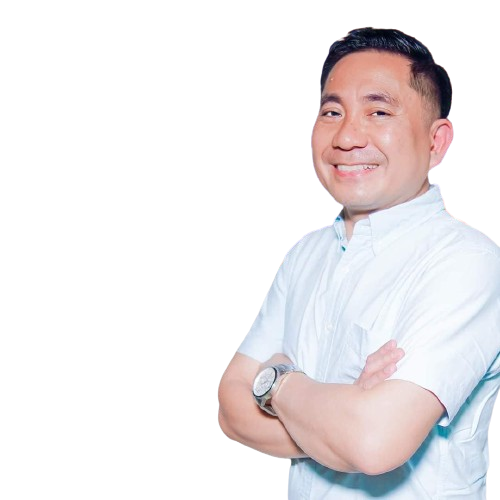
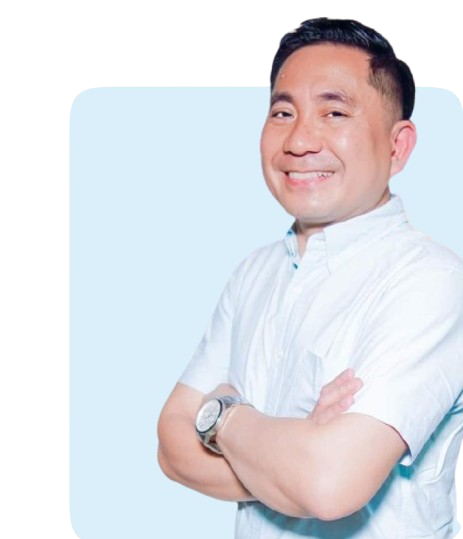
add more and pictures

diff --git a/pages/features.html b/pages/features.html
@@ -1,45 +1,26 @@
 <section id="features" class="features">
-    <div class="container" data-aos="fade-up">
-      <div class="row">
-        <div class="col-lg-6 order-2 order-lg-1" data-aos="fade-right">
-          <div class="icon-box mt-5 mt-lg-0">
-            <i class="bx bx-receipt"></i>
-            <h4>Est labore ad</h4>
-            <p>
-              Consequuntur sunt aut quasi enim aliquam quae harum pariatur
-              laboris nisi ut aliquip
-            </p>
-          </div>
-          <div class="icon-box mt-5">
-            <i class="bx bx-cube-alt"></i>
-            <h4>Harum esse qui</h4>
-            <p>
-              Excepteur sint occaecat cupidatat non proident, sunt in culpa
-              qui officia deserunt
-            </p>
-          </div>
-          <div class="icon-box mt-5">
-            <i class="bx bx-images"></i>
-            <h4>Aut occaecati</h4>
-            <p>
-              Aut suscipit aut cum nemo deleniti aut omnis. Doloribus ut
-              maiores omnis facere
-            </p>
-          </div>
-          <div class="icon-box mt-5">
-            <i class="bx bx-shield"></i>
-            <h4>Beatae veritatis</h4>
-            <p>
-              Expedita veritatis consequuntur nihil tempore laudantium vitae
-              denat pacta
-            </p>
-          </div>
+  <div class="container" data-aos="fade-up">
+    <div class="row justify-content-between">
+      <div class="col-lg-6 order-2 order-lg-1" style="padding-top: 10%;" data-aos="fade-right">
+        <div class="details mt-1 mt-lg-0">
+          <p style="color: #583fbc">EXPERTS IN DENTAL</p>
+          <h1><b>Top-notch dentistry, from Seattle's top dentists.</b></h1>
+          <h4>
+            Experience the pinnacle of dental care with our top-notch dentistry
+            services, where your smile is our priority!
+          </h4>
+          <ul class="features">
+            <li><i class="fas fa-circle-check"></i>Top quality dental team</li>
+            <li>
+              <i class="fas fa-circle-check"></i>State of the art dental services
+            </li>
+            <li>
+              <i class="fas fa-circle-check"></i>Discount on all dental treatment
+            </li>
+          </ul>
         </div>
-        <div
-          class="image col-lg-6 order-1 order-lg-2"
-          style="background-image: url('../assets/img/expert.png')"
-          data-aos="zoom-in"
-        ></div>
       </div>
+      <div class="image col-lg-6 order-1 order-lg-2" data-aos="zoom-in"></div>
     </div>
-  </section>
+  </div>
+</section>

diff --git a/assets/css/style.css b/assets/css/style.css
@@ -397,8 +397,11 @@ h6 {
 # Hero Section
 --------------------------------------------------------------*/
 .hero-section {
-  background: linear-gradient(to right, rgba(39, 70, 133, 0.8) 0%, rgba(61, 179, 197, 0.3) 70%), url(../img/hero.png);
+  background: linear-gradient(to right, rgba(39, 70, 133, 0.8) 0%, rgba(61, 179, 197, 0.3) 100%), url(../img/hero.png);
   position: relative;
+  background-repeat: no-repeat;
+  background-size: contain;
+  
 }
 
 .hero-section .wave {
@@ -696,10 +699,23 @@ section {
   margin: 5px 0 10px 60px;
 }
 
-.features .icon-box i {
-  font-size: 48px;
-  float: left;
+.features .details p, h1{
+  margin-bottom: 25px;
+}
+
+.features li{
+  list-style-type: none;
+  margin-bottom: 15px;
+}
+
+.features li i{
+  margin-right: 10px;
   color: #583FBC;
+}
+
+.features .details h4{
+opacity: .5;
+margin-bottom: 35px;
 }
 
 .features .icon-box p {
@@ -713,7 +729,20 @@ section {
   background-repeat: no-repeat;
   background-size: cover;
   min-height: 400px;
+  background: url('../img/expert.png');
+  max-width: 40%;
+  padding-bottom: 40%; /* Added padding-bottom to maintain aspect ratio */
+  right: 10px;
+
 }
+
+@media (max-width: 992px)   {
+  .features .image {
+    display: none;
+  }
+}
+
+
 
 /*--------------------------------------------------------------
 # Services
@@ -887,16 +916,13 @@ section {
     border-radius: 20px; /* Border radius */
     padding: 20px; /* Add some padding */
     margin-bottom: 20px; /* Add some space at the bottom */
+    margin: 50px;
   }
 
   /* This creates the floating effect */
   #testimonials::before {
     content: '';
     position: absolute;
-    top: -20px; /* Adjust as needed */
-    left: -20px; /* Adjust as needed */
-    right: -20px; /* Adjust as needed */
-    bottom: -20px; /* Adjust as needed */
     z-index: -1;
     background-color: #3498db; /* Same as section background */
     border-radius: 25px; /* Border radius */

diff --git a/index.html b/index.html
@@ -9,8 +9,8 @@
     <meta content="" name="keywords" />
 
     <!-- Favicons -->
-    <link href="assets/img/favicon.png" rel="icon" />
-    <link href="assets/img/apple-touch-icon.png" rel="apple-touch-icon" />
+    <link href="assets/img/icon.png" rel="icon" />
+    <link href="assets/img/icon.png " />
 
     <div html-include="./links.html"></div>
 
